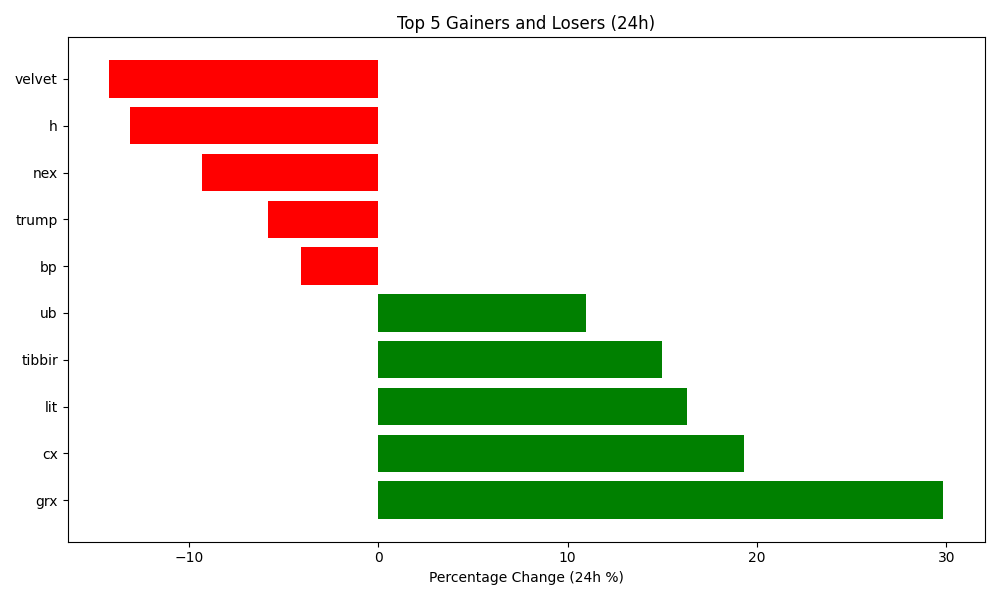
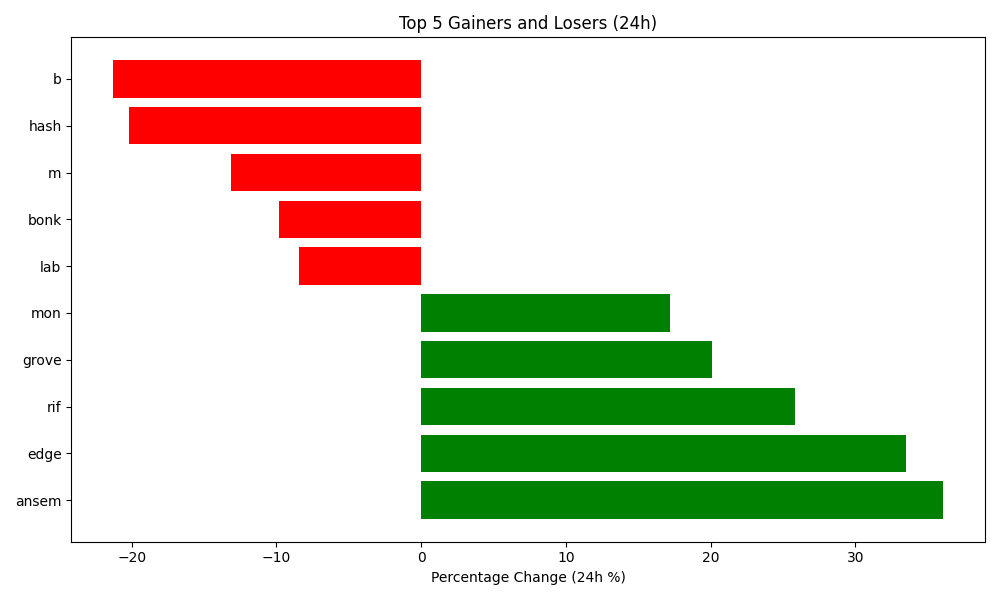
Auto-update crypto data and plot

diff --git a/README.md b/README.md
@@ -4,7 +4,7 @@ Author: Hitesh Agrawal
 This repository automatically tracks the top 5 gaining, top 5 losing, and top 5 highest volume cryptocurrencies in the last 24 hours using the CoinGecko API, Python, Matplotlib, and GitHub Actions updates the below content everyday at midnight.
 
 <!-- START_DYNAMIC_CONTENT -->
-Last updated: 2026-07-06 02:30 UTC
+Last updated: 2026-07-07 02:25 UTC
 
 ![Crypto Movers Plot](crypto_movers_plot.png)
 
@@ -12,33 +12,33 @@ Last updated: 2026-07-06 02:30 UTC
 
 | Rank | Coin | Price Change (24h %) | Volume (USD) | Current Price (USD) |
 | :--: | :--: | :------------------: | :----------: | :-----------------: |
-| 1 | grx | 29.85% | $2,446,004 | $12.8500 |
-| 2 | cx | 19.30% | $1,633,195 | $0.0809 |
-| 3 | lit | 16.29% | $86,624,484 | $2.5400 |
-| 4 | tibbir | 15.00% | $1,649,495 | $0.1289 |
-| 5 | ub | 10.98% | $12,060,890 | $0.1079 |
+| 1 | ansem | 36.08% | $68,271,209 | $0.4185 |
+| 2 | edge | 33.50% | $15,802,232 | $0.3189 |
+| 3 | rif | 25.81% | $15,607,331 | $0.1304 |
+| 4 | grove | 20.07% | $984,507 | $0.0309 |
+| 5 | mon | 17.19% | $172,683,382 | $0.0251 |
 
 
 **👇 Top 5 Losers (24h)**
 
 | Rank | Coin | Price Change (24h %) | Volume (USD) | Current Price (USD) |
 | :--: | :--: | :------------------: | :----------: | :-----------------: |
-| 1 | velvet | -14.20% | $19,918,446 | $0.4939 |
-| 2 | h | -13.12% | $11,204,695 | $0.0712 |
-| 3 | nex | -9.29% | $10,501,993 | $0.0000 |
-| 4 | trump | -5.83% | $90,210,080 | $1.6900 |
-| 5 | bp | -4.08% | $2,095,741 | $0.5191 |
+| 1 | b | -21.31% | $17,617,558 | $0.1679 |
+| 2 | hash | -20.22% | $2,550 | $0.0071 |
+| 3 | m | -13.12% | $17,283,248 | $1.2300 |
+| 4 | bonk | -9.86% | $113,860,220 | $0.0000 |
+| 5 | lab | -8.47% | $71,025,373 | $14.9400 |
 
 
 **💎 Top 5 by Trade Volume (24h)**
 
 | Rank | Coin | Price Change (24h %) | Volume (USD) | Current Price (USD) |
 | :--: | :--: | :------------------: | :----------: | :-----------------: |
-| 1 | usdt | -0.01% | $35,558,108,358 | $0.9990 |
-| 2 | btc | 1.25% | $19,675,477,888 | $63,505.0000 |
-| 3 | eth | 1.21% | $10,864,020,970 | $1,784.9100 |
-| 4 | usdc | -0.01% | $6,492,044,790 | $0.9997 |
-| 5 | sol | 1.23% | $1,616,596,488 | $81.4700 |
+| 1 | usdt | 0.04% | $59,240,174,123 | $0.9994 |
+| 2 | btc | 0.23% | $36,322,393,579 | $63,691.0000 |
+| 3 | eth | -0.15% | $16,363,201,766 | $1,783.9600 |
+| 4 | usdc | 0.03% | $12,667,969,669 | $1.0000 |
+| 5 | sol | 0.25% | $2,559,558,961 | $81.6700 |
 
 
 <!-- END_DYNAMIC_CONTENT -->
